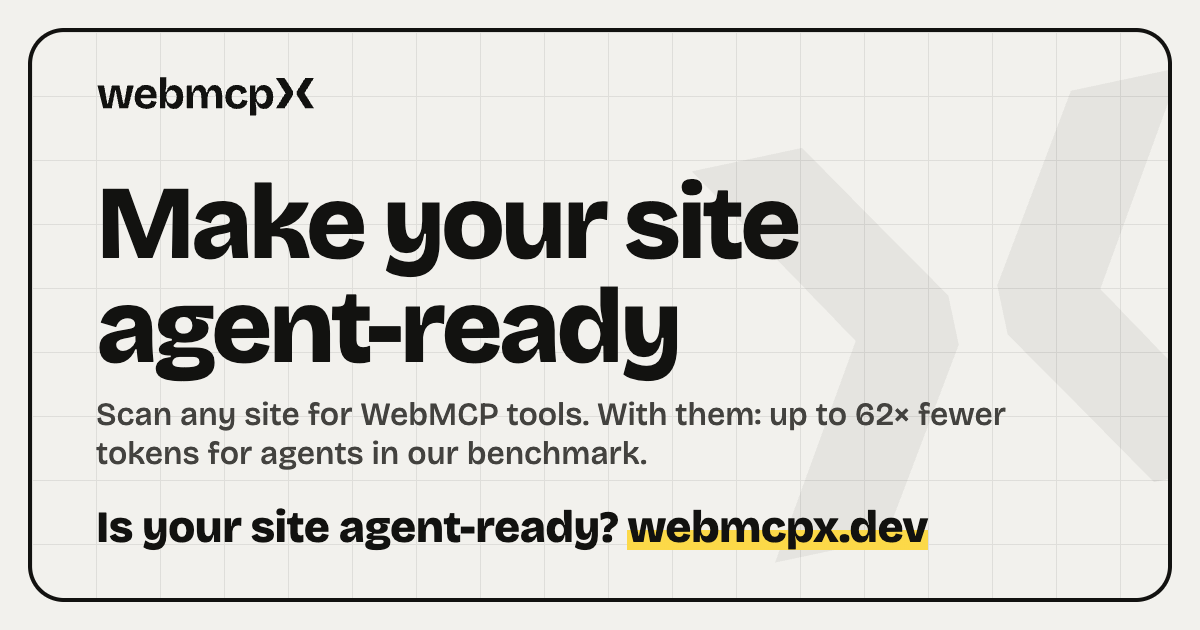
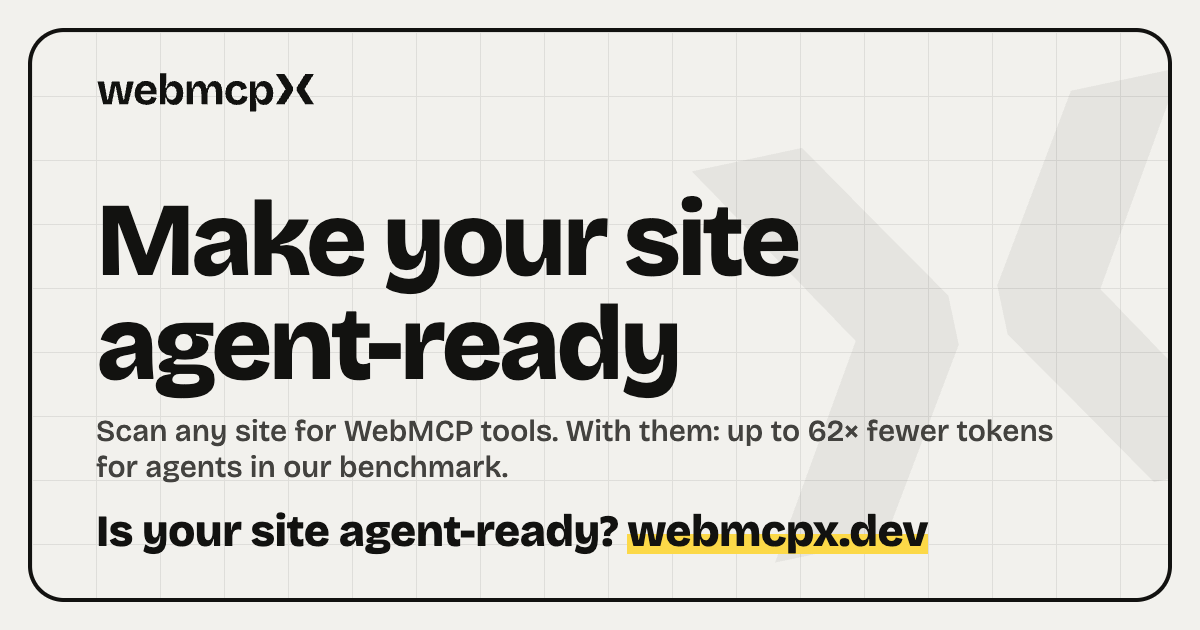
feat: a fix prompt where a site has no WebMCP tools; the hero links its best case
- Scan result (and its PDF): with no WebMCP tools, "Prompt for your coding agent":
  read webmcpx.dev/llms.txt, add the script tag to the shared layout, check locally
  with `npx webmcpx tools`, re-scan after deploying; prose in 11 languages, URLs and
  commands literal; a note that the other checks decide the verdict. The copy button
  is hidden in print.
- Share image, no tools only: a small mono line under the hook, "Add WebMCP tools:
  webmcpx.dev/llms.txt", also in the alt text; stamp, host, hook, score and CTA keep
  their size (agreed with Codex in two rounds). Spacing tightened so every language
  still fits both formats.
- Hero: "Notion, GPT-6 Luna" links to that run's page, which opens on its best case.
- CI: .gitattributes keeps LF on Windows (lint offsets in snapshots); the Save PDF
  test waits for the dialog instead of reading it right after the click.

Changed region(s): [[0.0617, 0.2714, 0.8942, 0.7841], [0.0925, 0.8143, 0.7708, 0.9048], [0.0617, 0.1206, 0.2775, 0.181]]

diff --git a/site/tests/landing.spec.ts b/site/tests/landing.spec.ts
@@ -289,10 +289,10 @@ test('Save PDF prints the result card alone, named after the site', async ({ pag
 	await expect(png).toHaveAttribute('href', `/og/scan.png?url=${encodeURIComponent(REPORT.url)}&size=post`);
 	await expect(png).toHaveAttribute('download', 'webmcpx-scan-docs.example.com.png');
 	await page.locator('#scan').getByRole('button', { name: 'Save PDF' }).click();
-	expect(await page.evaluate(() => (window as unknown as { printed: object }).printed)).toEqual({
-		title: 'webmcpx scan · docs.example.com',
-		printing: true
-	});
+	// The dialog opens after the page has re-rendered for print: wait for it.
+	await expect
+		.poll(() => page.evaluate(() => (window as unknown as { printed?: object }).printed))
+		.toEqual({ title: 'webmcpx scan · docs.example.com', printing: true });
 	// Back to normal after the dialog.
 	expect(await page.evaluate(() => 'printing' in document.documentElement.dataset)).toBe(false);
 	// In print, only the card is laid out.
@@ -848,4 +848,43 @@ test('the site says it sets no cookies, and sets none', async ({ page, context }
 	await page.keyboard.press('Enter');
 	await expect(page.locator('#scan').getByRole('button', { name: 'Compartilhar' })).toBeVisible();
 	expect(await context.cookies()).toEqual([]);
+});
+
+test("the hero's best case links to that run, which opens on it", async ({ page }) => {
+	await page.goto('/pt-br/');
+	const link = page.getByRole('link', { name: 'Notion, GPT-6 Luna' });
+	await expect(link).toHaveAttribute('href', '/pt-br/benchmark/gpt-6-luna/#leaderboard');
+	await link.click();
+	await expect(page).toHaveURL(/\/pt-br\/benchmark\/gpt-6-luna\/#leaderboard$/);
+	await expect(page.locator('#leaderboard')).toContainText('Notion');
+});
+
+test('a site without WebMCP tools gets a prompt for its coding agent, in the page and the PDF', async ({
+	page
+}) => {
+	await mockScan(page, { ...REPORT, verdict: 'missing', tools: [] });
+	await page.goto('/pt-br/');
+	await page.getByLabel('Endereço do seu site').first().fill('docs.example.com');
+	await page.keyboard.press('Enter');
+	const fix = page.locator('#scan [data-agent-fix]');
+	await expect(fix).toContainText('Prompt para o seu agente de código');
+	// Prose in the page's language; the URLs, the command and the tag as they are.
+	await expect(fix).toContainText(
+		'Adicione ferramentas WebMCP a docs.example.com: leia https://webmcpx.dev/llms.txt e adicione <script type="module" src="https://cdn.jsdelivr.net/npm/webmcpx@0.2/dist/auto.js"></script> ao layout compartilhado. Confira com npx webmcpx tools <URL local>; depois do deploy, escaneie de novo em https://webmcpx.dev/scan/docs.example.com.'
+	);
+	// In the PDF: inside the printed card, its copy button gone.
+	await expect(page.locator('[data-print-area] [data-agent-fix]')).toHaveCount(1);
+	await page.evaluate(() => (document.documentElement.dataset.printing = ''));
+	await page.emulateMedia({ media: 'print' });
+	await expect(fix).toBeVisible();
+	await expect(fix.getByRole('button')).toBeHidden();
+});
+
+test('an agent-ready or almost result gets no fix prompt', async ({ page }) => {
+	await mockScan(page);
+	await page.goto('/');
+	await page.getByLabel("Your site's address").first().fill('docs.example.com');
+	await page.keyboard.press('Enter');
+	await expect(page.locator('#scan').getByRole('button', { name: 'Share' })).toBeVisible();
+	await expect(page.locator('#scan [data-agent-fix]')).toHaveCount(0);
 });

diff --git a/site/src/lib/i18n/dict/bn.ts b/site/src/lib/i18n/dict/bn.ts
@@ -703,6 +703,16 @@ const bn: Messages = {
 			fix: 'WebMCP ঠিক করুন',
 			lint: 'সোর্সের প্রতিটি সমস্যা খুঁজুন, সমাধানসহ:',
 			terminal: 'টার্মিনাল',
+			// No WebMCP tools: a prompt for the site's coding agent (also in the PDF). {host} is the scanned host,
+			// {tag} the script tag and {rescan} the re-scan link, both literal; keep URLs and commands as written.
+			agentFix: {
+				title: 'আপনার কোডিং এজেন্টের জন্য প্রম্পট',
+				intro:
+					'এখানে এখনো কোনো WebMCP টুল নেই। সাইটের রিপোজিটরিতে এটি Claude Code, Codex বা Cursor-এ পেস্ট করুন:',
+				prompt:
+					'{host}-এ WebMCP টুল যোগ করো: https://webmcpx.dev/llms.txt পড়ো, তারপর {tag} শেয়ার করা লেআউটে যোগ করো। npx webmcpx tools <লোকাল URL> দিয়ে যাচাই করো; ডিপ্লয়ের পর {rescan}-এ আবার স্ক্যান করো।',
+				note: 'এতে WebMCP টুল যোগ হয়; রায় ওপরের অন্য যাচাইগুলোর ওপরও নির্ভর করে।'
+			},
 			badge: 'আপনার সাইট agent-ready ব্যাজ পেয়েছে',
 			badgeNote:
 				'SVG কোডের ভেতরেই থাকে, তাই আমাদের কাছ থেকে কিছুই লোড হয় না। এটি আপনার সাইটের একটি লাইভ স্ক্যানে লিংক করে, তাই যে কেউ যাচাই করে নিতে পারেন।',

diff --git a/site/src/lib/i18n/dict/hi.ts b/site/src/lib/i18n/dict/hi.ts
@@ -694,6 +694,16 @@ const hi: Messages = {
 			fix: 'WebMCP ठीक करें',
 			lint: 'अपने सोर्स की हर समस्या खोजें, सुधार के साथ:',
 			terminal: 'टर्मिनल',
+			// No WebMCP tools: a prompt for the site's coding agent (also in the PDF). {host} is the scanned host,
+			// {tag} the script tag and {rescan} the re-scan link, both literal; keep URLs and commands as written.
+			agentFix: {
+				title: 'आपके कोडिंग एजेंट के लिए प्रॉम्प्ट',
+				intro:
+					'यहाँ अभी कोई WebMCP टूल नहीं है। साइट की रिपॉज़िटरी में इसे Claude Code, Codex या Cursor में पेस्ट करें:',
+				prompt:
+					'{host} में WebMCP टूल जोड़ो: https://webmcpx.dev/llms.txt पढ़ो, फिर {tag} को साझा लेआउट में जोड़ो। npx webmcpx tools <लोकल URL> से जाँचो; डिप्लॉय के बाद {rescan} पर फिर से स्कैन करो।',
+				note: 'इससे WebMCP टूल जुड़ते हैं; फ़ैसला ऊपर की बाकी जाँचों पर भी निर्भर है।'
+			},
 			badge: 'आपकी साइट ने agent-ready बैज जीत लिया',
 			badgeNote:
 				'SVG कोड में ही है, इसलिए हमारी तरफ़ से कुछ भी लोड नहीं होता। यह आपकी साइट के लाइव स्कैन से लिंक होता है, ताकि कोई भी इसे जाँच सके।',

diff --git a/site/src/lib/features/hero/Hero.svelte b/site/src/lib/features/hero/Hero.svelte
@@ -16,12 +16,15 @@
 
 	interface Props {
 		/** The leaderboard's best case, quoted in the lead with its site and model; null: no run published. */
-		best: { saving: number; site: string; model: string } | null;
+		best: { saving: number; site: string; model: string; id: string } | null;
 	}
 
 	let { best }: Props = $props();
 	const i18n = useI18n();
 	const m = $derived(i18n.m.hero);
+	// "{site}, {model}" in the lead is one link to that run's page, which opens on its best case. The
+	// separator is the language's own (", ", "，", "、").
+	const bestSeparator = $derived(/\{site\}(.*?)\{model\}/.exec(m.lead)?.[1] ?? ', ');
 	/** Letters in the headline's longer line from sm up: the text before the mark, or the mark and what follows. */
 	const lineLen = $derived.by(() => {
 		const [before, after = ''] = m.title.text.split('{mark}');
@@ -68,9 +71,14 @@
 			<Reveal delay={120}>
 				<p class="mx-auto mt-7 max-w-5xl text-lg text-balance text-ink-2 sm:text-xl">
 					{#if best}
-						<Rich text={fmt(m.lead, { site: best.site, model: best.model })}>
+						<Rich text={m.lead.replace(/\{site\}.*?\{model\}/, '{bestCase}')}>
 							{#snippet mark()}<span class="marker text-ink"
 									>{fmt(m.leadMark, { best: ratio(best.saving) })}</span
+								>{/snippet}
+							{#snippet bestCase()}<a
+									href="{i18n.href(`/benchmark/${best.id}/`)}#leaderboard"
+									class="underline decoration-ink/30 underline-offset-4 hover:decoration-ink"
+									>{best.site}{bestSeparator}{best.model}</a
 								>{/snippet}
 						</Rich>
 					{:else}{m.leadPlain}{/if}

diff --git a/site/src/lib/i18n/dict/ru.ts b/site/src/lib/i18n/dict/ru.ts
@@ -740,6 +740,16 @@ const ru: Messages = {
 			fix: 'Исправить WebMCP',
 			lint: 'Найдите все проблемы в исходниках — сразу с исправлениями:',
 			terminal: 'терминал',
+			// No WebMCP tools: a prompt for the site's coding agent (also in the PDF). {host} is the scanned host,
+			// {tag} the script tag and {rescan} the re-scan link, both literal; keep URLs and commands as written.
+			agentFix: {
+				title: 'Промпт для вашего агента-программиста',
+				intro:
+					'Инструментов WebMCP здесь пока нет. Вставьте это в Claude Code, Codex или Cursor в репозитории сайта:',
+				prompt:
+					'Добавь инструменты WebMCP на {host}: прочитай https://webmcpx.dev/llms.txt и добавь {tag} в общий шаблон страниц. Проверь командой npx webmcpx tools <локальный URL>; после деплоя запусти проверку снова: {rescan}.',
+				note: 'Это добавит инструменты WebMCP; вердикт зависит и от остальных проверок выше.'
+			},
 			badge: 'Ваш сайт получил бейдж agent-ready',
 			badgeNote:
 				'SVG встроен прямо в код, поэтому с наших серверов ничего не загружается. Бейдж ведёт на живую проверку вашего сайта — убедиться может любой.',

diff --git a/site/src/lib/i18n/dict/ja.ts b/site/src/lib/i18n/dict/ja.ts
@@ -687,6 +687,16 @@ const ja: Messages = {
 			fix: 'WebMCP を修正',
 			lint: 'ソース内の問題をすべて洗い出し、修正案も示します：',
 			terminal: 'ターミナル',
+			// No WebMCP tools: a prompt for the site's coding agent (also in the PDF). {host} is the scanned host,
+			// {tag} the script tag and {rescan} the re-scan link, both literal; keep URLs and commands as written.
+			agentFix: {
+				title: 'コーディングエージェント用のプロンプト',
+				intro:
+					'まだ WebMCP ツールがありません。サイトのリポジトリで、これを Claude Code、Codex、Cursor に貼り付けてください:',
+				prompt:
+					'{host} に WebMCP ツールを追加して: https://webmcpx.dev/llms.txt を読み、{tag} を共通レイアウトに追加する。npx webmcpx tools <ローカル URL> で確認し、デプロイ後に {rescan} で再スキャンする。',
+				note: 'これで WebMCP ツールが追加されます。判定は上のほかのチェックにも左右されます。'
+			},
 			badge: 'あなたのサイトは agent-ready バッジを獲得しました',
 			badgeNote:
 				'SVG はコードに直接埋め込まれるので、こちらからは何も読み込みません。リンク先はそのサイトのライブスキャンなので、誰でも確認できます。',

diff --git a/site/src/lib/features/scan/ScanResult.svelte b/site/src/lib/features/scan/ScanResult.svelte
@@ -37,6 +37,7 @@
 	} from './scan.ts';
 	import { scanner } from './scanner.svelte.ts';
 	import { highlightLite } from './highlight-lite.ts';
+	import { SCRIPT_TAG } from '#lib/content/snippets.ts';
 
 	const i18n = useI18n();
 	const m = $derived(i18n.m.scan);
@@ -372,7 +373,22 @@
 			{/if}
 
 			{#if r.verdict === 'missing'}
-				<!-- The fix lives in one place, the #for-sites section; the result only points there. -->
+				<!-- No WebMCP tools: a prompt the site's coding agent can act on, in the PDF too (an agent reading the
+				     page or the PDF finds the fix right here). The full setup stays in #for-sites and llms.txt. -->
+				{@const prompt = fmt(m.result.agentFix.prompt, {
+					host: host(r.url),
+					tag: SCRIPT_TAG,
+					rescan: shareLink('https://webmcpx.dev', r.url)
+				})}
+				<div class="border-t-2 border-ink p-5 sm:px-7" data-agent-fix>
+					<p class="mb-3 font-medium">{m.result.agentFix.intro}</p>
+					<CodeBlock
+						snippet={highlightLite(prompt, 'text')}
+						title={m.result.agentFix.title}
+						class="shadow-none"
+					/>
+					<p class="mt-3 text-sm text-ink-3">{m.result.agentFix.note}</p>
+				</div>
 			{:else if r.verdict === 'issues'}
 				<div class="border-t-2 border-ink p-5 sm:px-7">
 					<p class="mb-3 font-medium">{m.result.lint}</p>

diff --git a/site/src/lib/i18n/dict/es.ts b/site/src/lib/i18n/dict/es.ts
@@ -706,6 +706,16 @@ const es: Messages = {
 			fix: 'Corregir WebMCP',
 			lint: 'Encuentra todos los problemas en tu código fuente, con su corrección:',
 			terminal: 'terminal',
+			// No WebMCP tools: a prompt for the site's coding agent (also in the PDF). {host} is the scanned host,
+			// {tag} the script tag and {rescan} the re-scan link, both literal; keep URLs and commands as written.
+			agentFix: {
+				title: 'Prompt para tu agente de código',
+				intro:
+					'Aún no hay herramientas WebMCP aquí. Pega esto en Claude Code, Codex o Cursor, en el repositorio del sitio:',
+				prompt:
+					'Añade herramientas WebMCP a {host}: lee https://webmcpx.dev/llms.txt y añade {tag} al layout compartido. Compruébalo con npx webmcpx tools <URL local>; tras desplegar, vuelve a escanear en {rescan}.',
+				note: 'Esto añade herramientas WebMCP; las demás comprobaciones de arriba deciden el veredicto.'
+			},
 			badge: 'Tu sitio ganó la insignia agent-ready',
 			badgeNote:
 				'El SVG va dentro del código, así que no se carga nada desde nuestros servidores. Enlaza a un escaneo en vivo de tu sitio, para que cualquiera pueda comprobarlo.',

diff --git a/site/src/lib/i18n/dict/fr.ts b/site/src/lib/i18n/dict/fr.ts
@@ -711,6 +711,16 @@ const fr: Messages = {
 			fix: 'Corriger WebMCP',
 			lint: 'Trouvez chaque problème dans votre code source, avec sa correction :',
 			terminal: 'terminal',
+			// No WebMCP tools: a prompt for the site's coding agent (also in the PDF). {host} is the scanned host,
+			// {tag} the script tag and {rescan} the re-scan link, both literal; keep URLs and commands as written.
+			agentFix: {
+				title: 'Prompt pour votre agent de code',
+				intro:
+					'Pas encore d’outils WebMCP ici. Collez ceci dans Claude Code, Codex ou Cursor, dans le dépôt du site :',
+				prompt:
+					'Ajoute des outils WebMCP à {host} : lis https://webmcpx.dev/llms.txt, puis ajoute {tag} au layout commun. Vérifie avec npx webmcpx tools <URL locale> ; après le déploiement, relance le scan sur {rescan}.',
+				note: 'Cela ajoute des outils WebMCP ; les autres vérifications ci-dessus décident du verdict.'
+			},
 			badge: 'Votre site a gagné le badge agent-ready',
 			badgeNote:
 				'Le SVG est inclus dans le code : rien ne se charge depuis chez nous. Il renvoie vers un scan en direct de votre site, que chacun peut vérifier.',

diff --git a/site/src/lib/i18n/dict/de.ts b/site/src/lib/i18n/dict/de.ts
@@ -706,6 +706,16 @@ const de: Messages = {
 			fix: 'WebMCP beheben',
 			lint: 'Finden Sie alle Probleme im Quellcode, samt Korrekturen:',
 			terminal: 'Terminal',
+			// No WebMCP tools: a prompt for the site's coding agent (also in the PDF). {host} is the scanned host,
+			// {tag} the script tag and {rescan} the re-scan link, both literal; keep URLs and commands as written.
+			agentFix: {
+				title: 'Prompt für deinen Coding-Agenten',
+				intro:
+					'Hier gibt es noch keine WebMCP-Tools. Füge das in Claude Code, Codex oder Cursor im Repository der Website ein:',
+				prompt:
+					'Füge {host} WebMCP-Tools hinzu: Lies https://webmcpx.dev/llms.txt und füge {tag} ins gemeinsame Layout ein. Prüfe mit npx webmcpx tools <lokale URL>; scanne nach dem Deploy erneut unter {rescan}.',
+				note: 'Das fügt WebMCP-Tools hinzu; über das Urteil entscheiden auch die anderen Prüfungen oben.'
+			},
 			badge: 'Ihre Website hat das Agent-ready-Badge verdient',
 			badgeNote:
 				'Das SVG steckt im Code, es wird also nichts von uns geladen. Es verlinkt auf einen Live-Scan Ihrer Website, damit jeder es nachprüfen kann.',

diff --git a/site/src/lib/i18n/dict/pt-br.ts b/site/src/lib/i18n/dict/pt-br.ts
@@ -705,6 +705,16 @@ const ptBr: Messages = {
 			fix: 'Corrigir WebMCP',
 			lint: 'Encontre todos os problemas no seu código-fonte, com as correções:',
 			terminal: 'terminal',
+			// No WebMCP tools: a prompt for the site's coding agent (also in the PDF). {host} is the scanned host,
+			// {tag} the script tag and {rescan} the re-scan link, both literal; keep URLs and commands as written.
+			agentFix: {
+				title: 'Prompt para o seu agente de código',
+				intro:
+					'Ainda não há ferramentas WebMCP aqui. Cole isto no Claude Code, Codex ou Cursor, no repositório do site:',
+				prompt:
+					'Adicione ferramentas WebMCP a {host}: leia https://webmcpx.dev/llms.txt e adicione {tag} ao layout compartilhado. Confira com npx webmcpx tools <URL local>; depois do deploy, escaneie de novo em {rescan}.',
+				note: 'Isso adiciona ferramentas WebMCP; as outras verificações acima decidem o veredito.'
+			},
 			badge: 'Seu site ganhou o selo agent-ready',
 			badgeNote:
 				'O SVG vai dentro do código, então nada é carregado de nós. Ele aponta para um scan ao vivo do seu site, e qualquer pessoa pode conferir.',

diff --git a/site/src/lib/i18n/dict/zh.ts b/site/src/lib/i18n/dict/zh.ts
@@ -658,6 +658,15 @@ const zh: Messages = {
 			fix: '修复 WebMCP',
 			lint: '找出源码里的所有问题，并给出修复方案：',
 			terminal: '终端',
+			// No WebMCP tools: a prompt for the site's coding agent (also in the PDF). {host} is the scanned host,
+			// {tag} the script tag and {rescan} the re-scan link, both literal; keep URLs and commands as written.
+			agentFix: {
+				title: '给你的编程智能体的提示词',
+				intro: '这里还没有 WebMCP 工具。在网站的代码仓库里，把这段粘贴给 Claude Code、Codex 或 Cursor：',
+				prompt:
+					'为 {host} 添加 WebMCP 工具：阅读 https://webmcpx.dev/llms.txt，然后把 {tag} 加到共用的页面布局里。用 npx webmcpx tools <本地 URL> 检查；部署后在 {rescan} 重新扫描。',
+				note: '这会添加 WebMCP 工具；是否就绪还取决于上面的其他检查。'
+			},
 			badge: '你的网站获得了 agent-ready 徽章',
 			badgeNote:
 				'SVG 直接内嵌在代码里，不会从我们这里加载任何东西。徽章链接到对你网站的实时扫描，谁都可以验证。',
